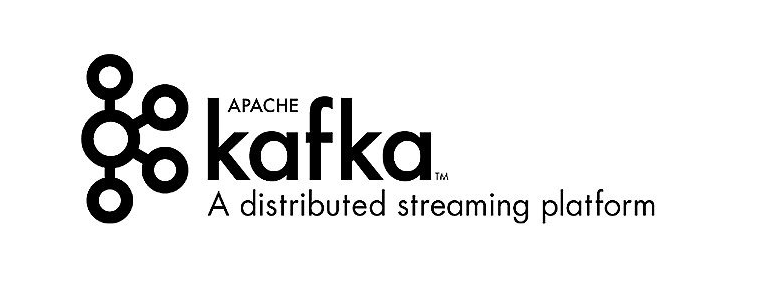
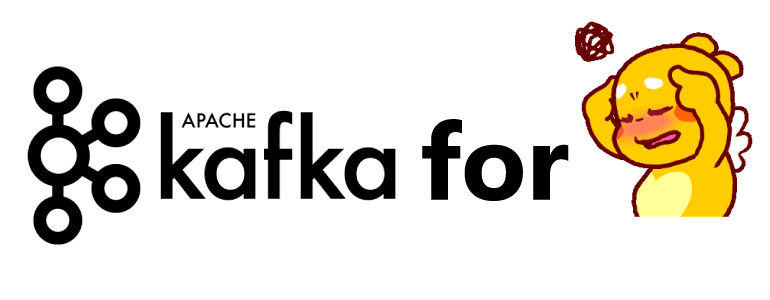
update image and 404.html

Changed region(s): [[0.0312, 0.06, 0.9974, 0.84]]

diff --git a/404.html b/404.html
@@ -13,6 +13,7 @@ title: Limbo
       <p>
         Sorry for this inconvenience. This website is currently under development.
       </p>
+      <img src="{{ '/assets/img/logo/404.jpg'}}" alt="Footer Logo" />
     </div>
   </body>
 </html>

diff --git a/_site/404.html b/_site/404.html
@@ -109,6 +109,7 @@
       <p>
         Sorry for this inconvenience. This website is currently under development.
       </p>
+      <img src="/assets/img/logo/404.jpg" alt="Footer Logo" />
     </div>
   </body>
 </html>
